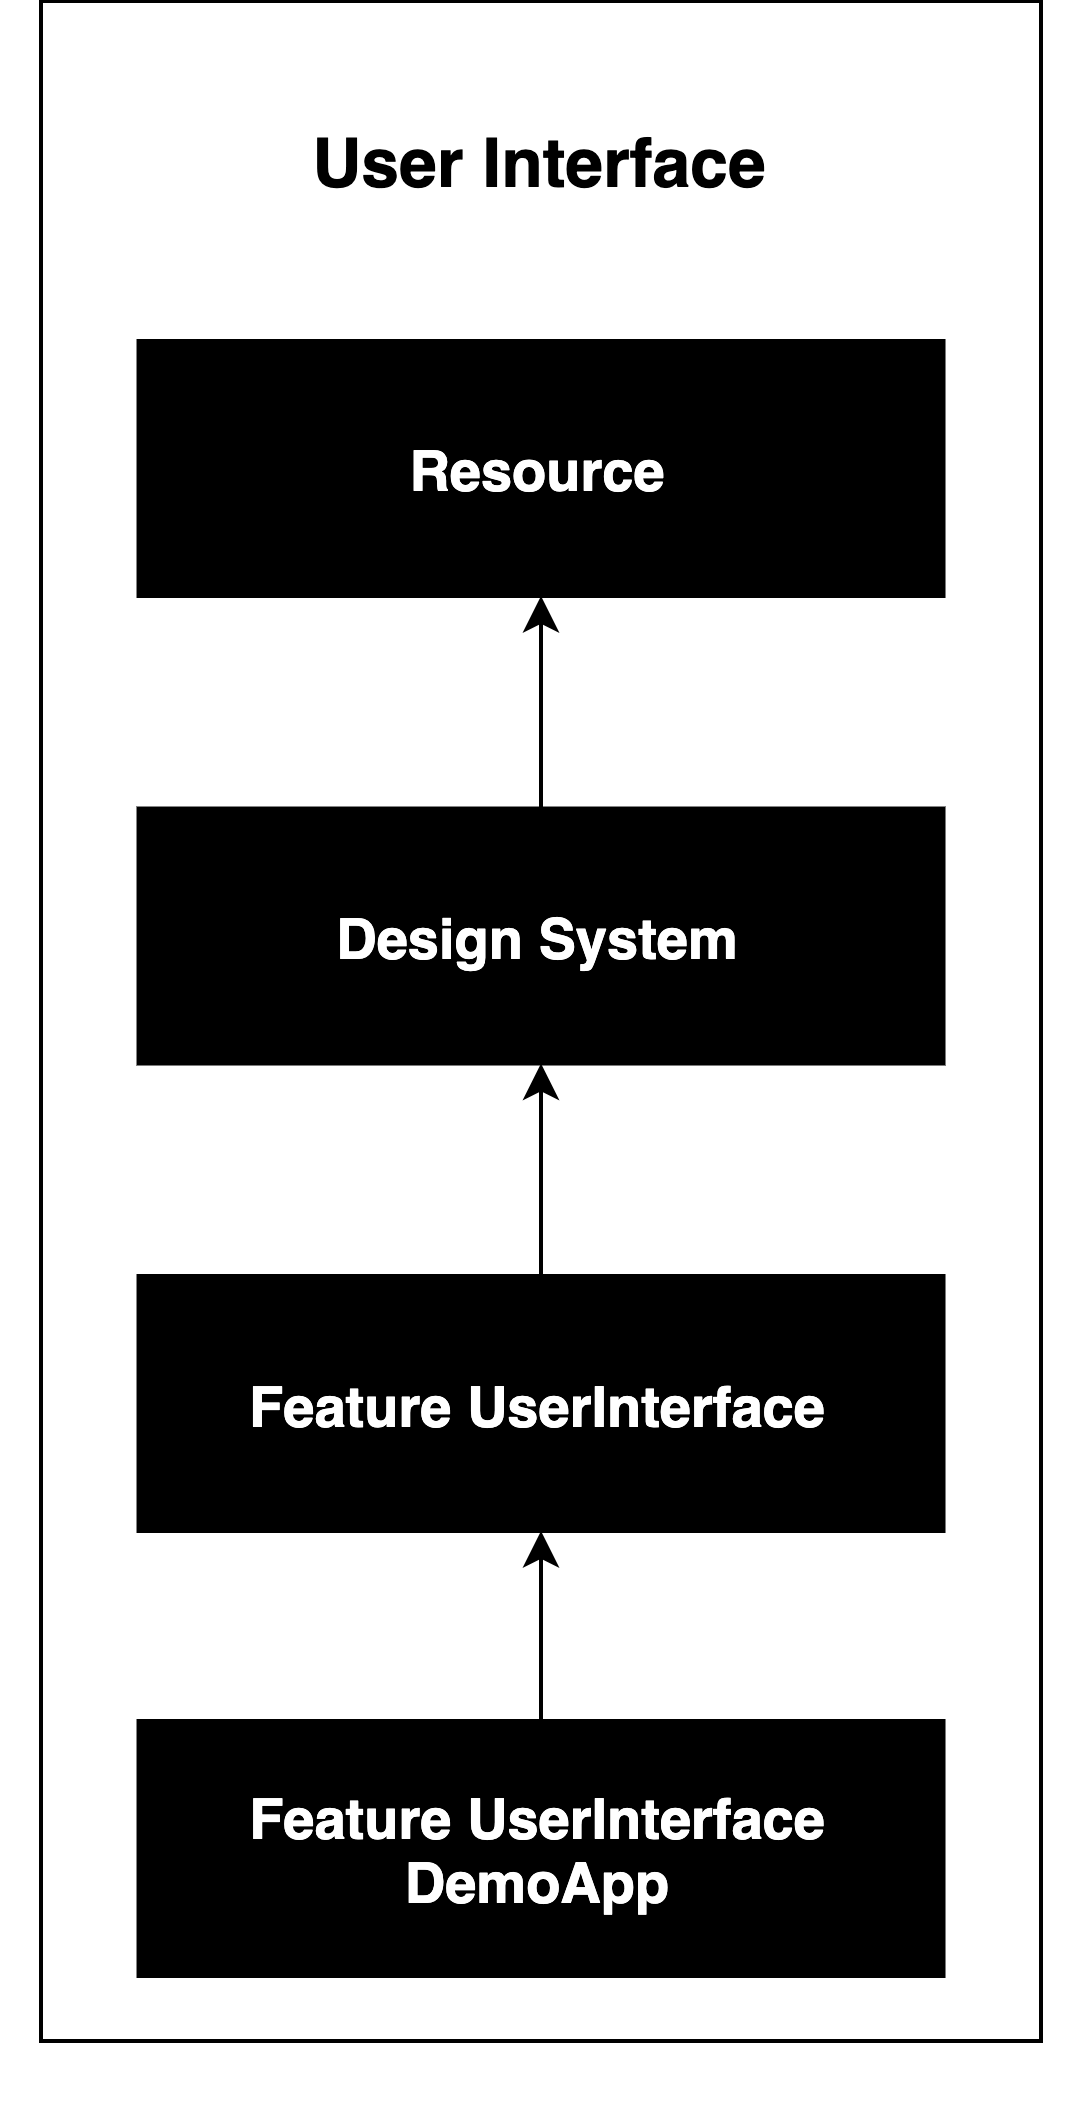
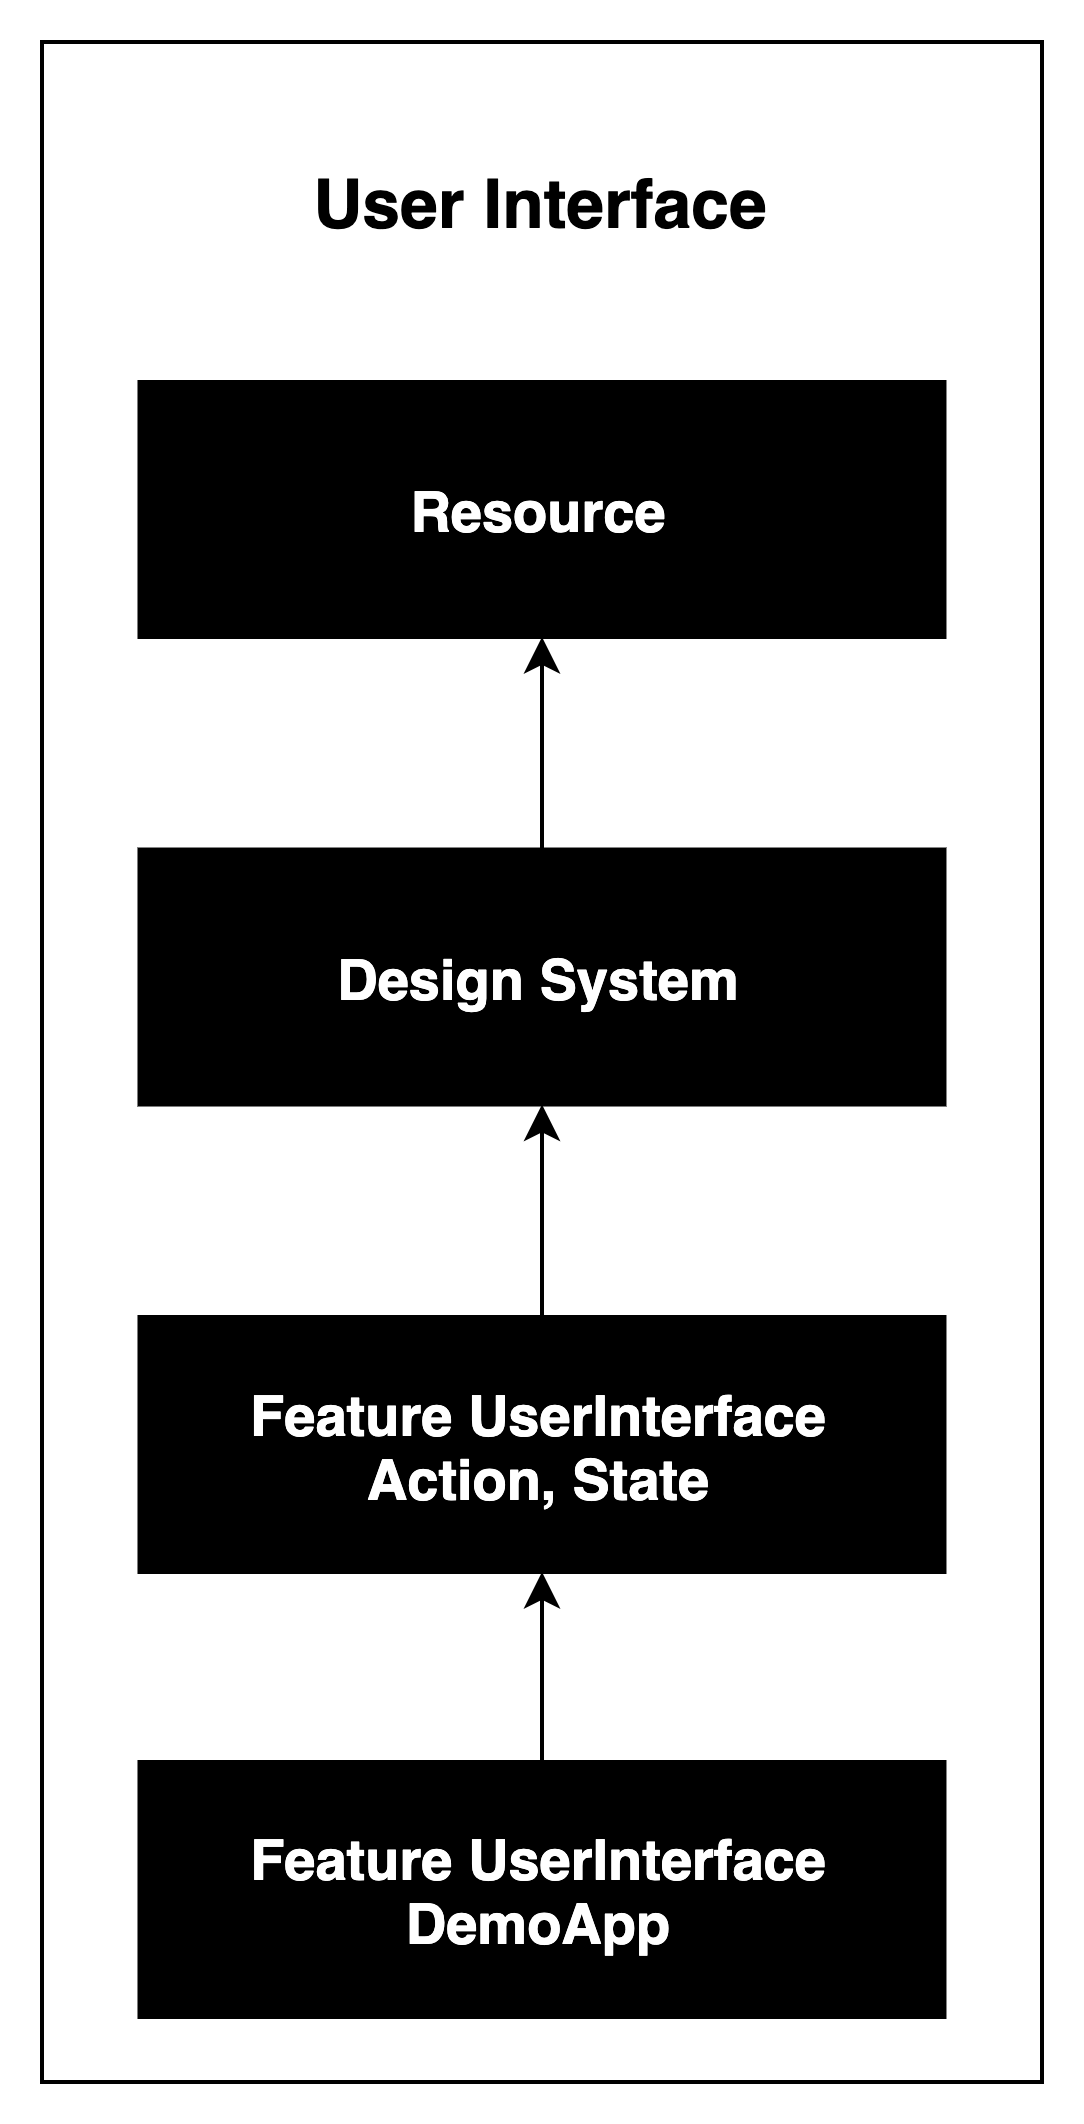
modify

diff --git a/_posts/2021/09/2021-09-01-ios-clean-architecture-with-ribs-reactorkit-and-modularization-using-tuist-1.md b/_posts/2021/09/2021-09-01-ios-clean-architecture-with-ribs-reactorkit-and-modularization-using-tuist-1.md
@@ -45,10 +45,9 @@ User Inteface는 다음과 같은 구조를 가지고 있습니다.
 
 디자인 시스템 모듈은 리소스를 의존성을 가지며, 또한, SwiftUI, [FlexLayout](https://github.com/layoutBox/FlexLayout), [Yoga](https://github.com/facebook/yoga), [SnapKit](https://github.com/SnapKit/SnapKit), [Texture](https://github.com/TextureGroup/Texture), [Render](https://github.com/alexdrone/Render) 등을 사용하여 애플리케이션의 디자인을 구현하기 위해 기반을 마련하도록 만드는 모듈입니다. 기본적인 컴포넌트를 제공하여 디자인 시스템 모듈을 가져다 기능 화면들을 구성할 수 있도록 제공합니다.
 
-### Feature UserInterface
+### Feature UserInterface, Action, State
 
 디자인 시스템 모듈에 의존성을 가져 기능별 View, ViewController을 빠르게 구성합니다. 그리고 어떤 상태를 받을지, 어떤 액션을 넘겨줄지 정의합니다. 이는 화면 개발시 의존성을 최대한 끊고, 상태만 받아 업데이트를 하고, 액션을 listener에 전달하기만 하면 됩니다. 기능에 의존성이 없어지기 때문에 화면을 빠르게 확인하고 개발이 가능합니다.
-
 
 ### Feature UserInterface DemoApp
 
@@ -64,13 +63,17 @@ Uber의 [RIBs](https://github.com/uber/RIBs) 아키텍처를 도입하여, Prese
 
 <p style="text-align:left;"><img src="{{ site.production_url }}/image/2021/09/20210901_04.png"/></p>
 
-### Presentation
+### Presentation - State, Action, Mapper, Presentation
 
-Presentation에서 RIB을 사용합니다. Presentation 모듈은 User Interface를 알도록 합니다. 안드로이드와 구조와 다르게 적용하였습니다. 이는 Builder를 통해서 Interactor, Router를 만들고, ViewController는 UserInterface 모듈로부터 가져와 생성하는 것을 지원하도록 합니다. 
+UserInterface의 State, Action과 동일한 구조를 가집니다. 이는 Presentation 모듈이 UserInterface 모듈과 강결합을 하지 않기 위함입니다. Interactor, Router를 테스트하기 위해 UserInterface에 정의된 타입을 가져다 사용하게 되면 강결합이 발생하는데, Presentation 모듈에 중복된 코드가 있다면 모듈간의 결합도를 줄여지게 됩니다.
 
-사실 여기 구조에서는 UserInterface 모듈의 Feature ViewController과 Presentation의 Interactor, Router, Builder는 한 묶음으로 구성되어 있습니다. 개발자는 이를 한 묶음으로 취급하지만, 코드에서는 서로는 모르도록 한 것일 뿐입니다.
+UserInterface 모듈에서 전달한 Action을 Presentation 모듈에 정의된 Action으로 변환해서 Interactor에 전달합니다. 그리고 Interactor에서 처리된 State를 UserInterface 모듈에 전달하기 위해 UserInterface 모듈에 정의된 State로 변환해야합니다. 이를 Mapper에서 처리하도록 합니다.
 
-(RIB의 Builder는 Interactor, Router, ViewController를 묶어주는 역할을 하기 때문에, Builder는 별도로 분리하여 클린 아키텍처를 구성하도록 하는 역할을 하면 UserInterface, Presentation 모듈 간의 의존성을 생기지 않도록 하여 개발하는 부분을 고민하고 있습니다.)
+Presentation는 UserInterface의 ViewController를 가져 Interactor에 Action을 전달하거나, State를 전달받고, Router를 통해 UserInterface 모듈의 UIViewController를 업데이트하는 등의 역할을 합니다.
+
+### Presentation - Interactor, Router, Builder
+
+Interactor는 비지니스로직을 처리를 담당하며, Router는 라우팅을 담당합니다. 그리고 Builder는 Presentation, Interactor, Router, UserCase 등을 묶어 하나의 단위로 묶어줍니다 Uber의 RIBs 역할을 그대로 수행합니다.
 
 ### Domain
 
